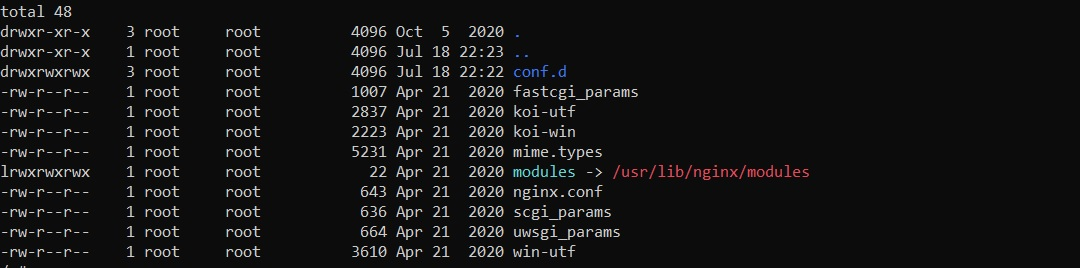
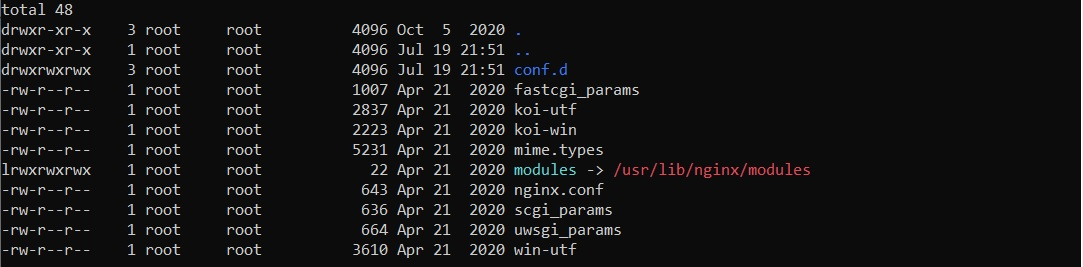
results

diff --git a/kubernetes-debug/README.md b/kubernetes-debug/README.md
@@ -1,0 +1,54 @@
+# Диагностика и отладка в Kubernetes
+
+Для выполнения использовался кластер Kubernetes и утилита kubectl, для которой приведены использованные команды.
+
+## Задача
+- Создать pod с distroless образом kyos0109/nginx-distroless
+- С помощью команды kubectl debug создать эфемерный контейнер длā отладки pod. Отладочный контейнер должен иметь доступ к пространству имен pid для основного контейнера pod.
+- Настроить и проверить доступ к файловой системе отлаживаемого контейнера из эфемерного - вывод команды ls –la /etc/nginx должен показывать структуру соответствующего каталога.
+- Запустить в отладочном контейнере команду tcpdump -nn -i any -e port 8000 и выполнить несколько сетевых обращений к nginx в отлаживаемом pod, убедиться что tcpdump отображает сетевые пакеты этих подключений.
+- С помощью kubectl debug создать отладочный под для ноды, на которой запущен pod с distroless nginx.
+- Получить доступ к файловой системе ноды, и затем доступ к логам pod с distrolles nginx.
+
+## Выполнение
+### Создание namespace и pod с distrolles nginx
+*kubectl apply -f ./manifests/namespace.yaml*
+
+*kubectl apply -f ./manifests/configmap.yaml*
+
+*kubectl apply -f ./manifests/pod.yaml*
+
+### Создание эфемерного контейнера
+*kubectl debug -it -c webserver-debugger --target=webserver --share-processes --image=nicolaka/netshoot  kubernetes-debug -n homework*
+
+*ps auxf*
+
+![screenshot](images/ps_auxf.jpg)
+
+*ls -la /proc/1/root/etc/nginx/*
+
+![screenshot](images/ls.jpg)
+
+### Проверка tcpdump
+
+*tcpdump -nn -i any -e port 8000*
+
+Выполнить сетевые обращения к pod:
+
+*kubectl port-forward pod/kubernetes-debug 8080:8000 -n homework*
+
+*curl http://localhost:8080*
+
+![screenshot](images/tcpdump.jpg)
+
+### Создание отладочного pod для ноды
+
+*kubectl debug node/docker-desktop -it --image=nicolaka/netshoot*
+
+### Чтение логов pod с distrolles nginx
+
+*chroot /host*
+
+*cat /var/log/pods/homework_kubernetes-debug_e559e54f-0eae-4439-8d64-8d1481bbdf72/webserver/0.log*
+
+![screenshot](images/node_logs.jpg)
